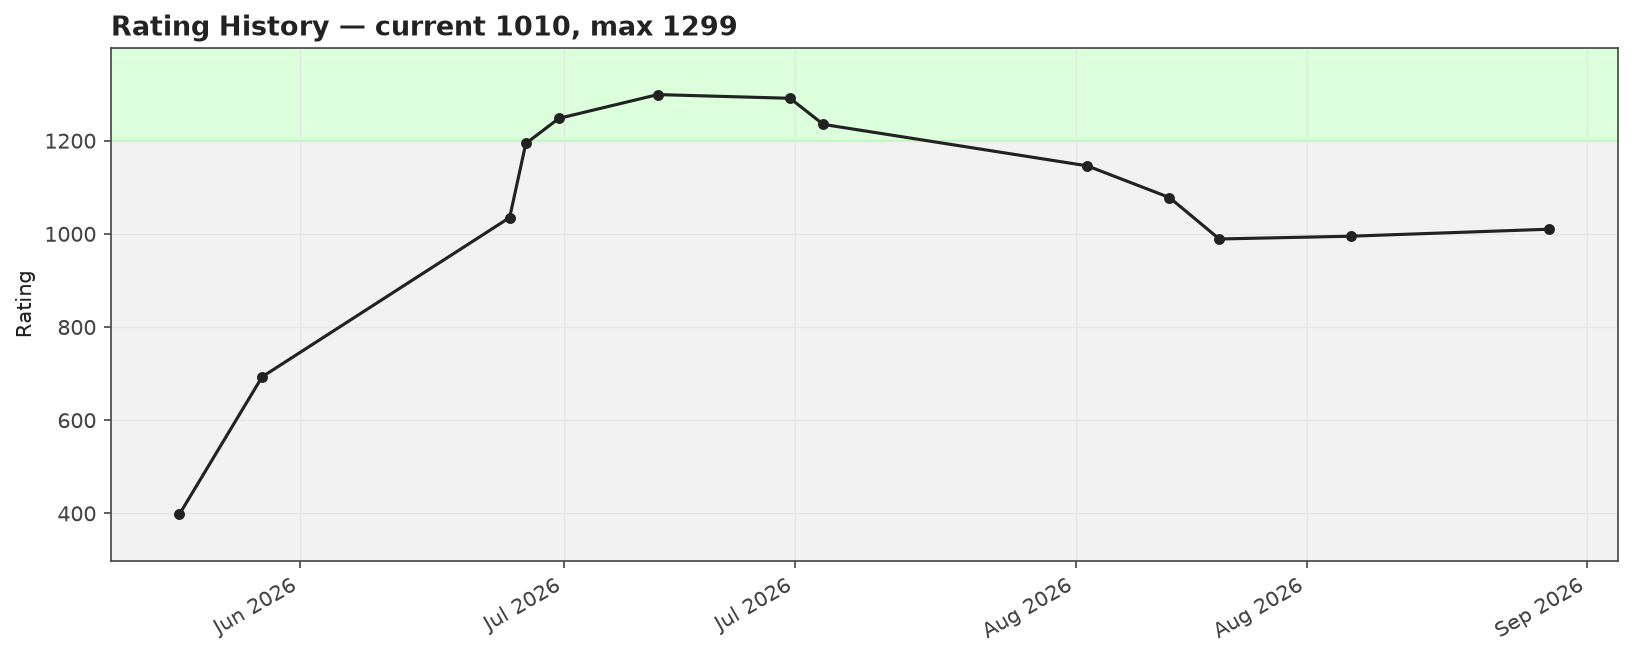
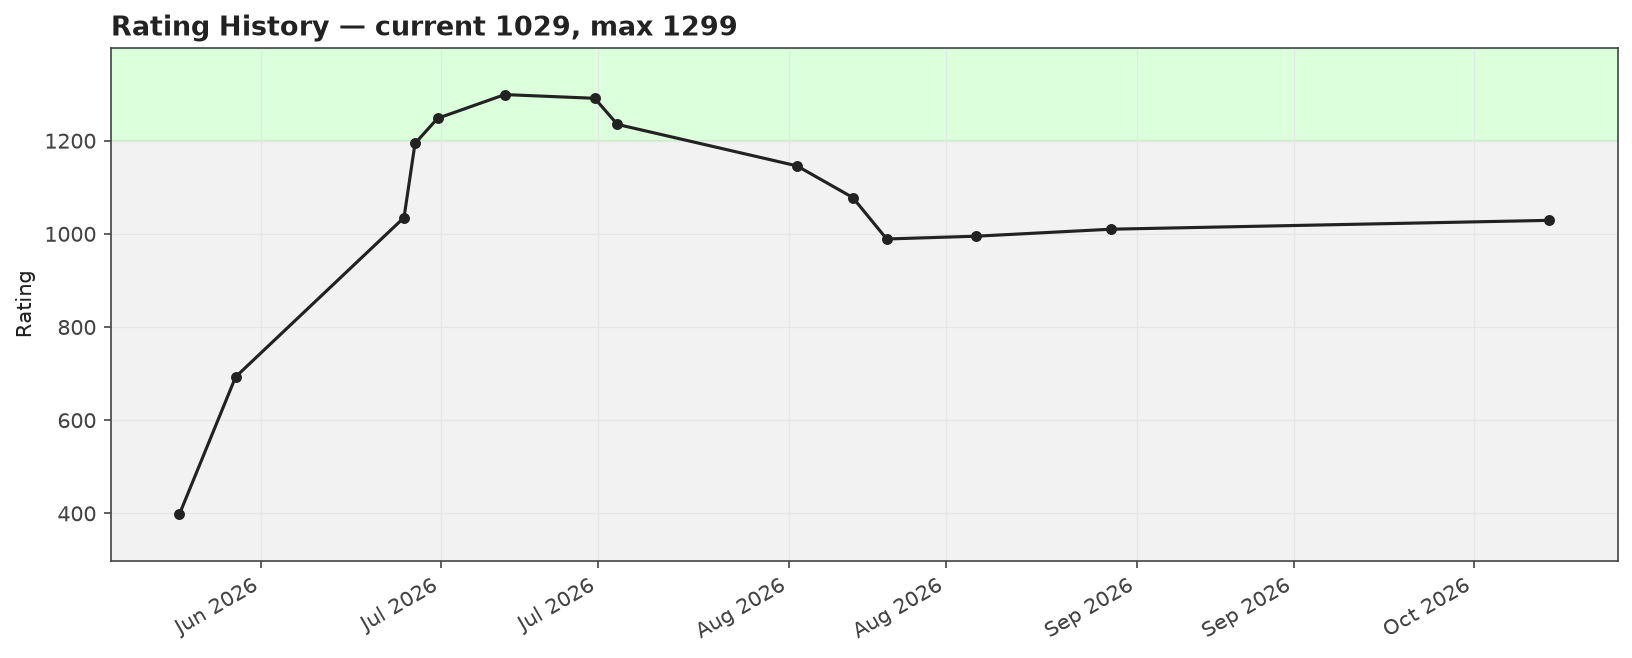
Sync: refresh analytics (rating/streak update, no new problems)

diff --git a/README.md b/README.md
@@ -5,7 +5,7 @@ Auto-generated archive of accepted Codeforces submissions for **[om_sharma_](htt
 - **Total solved:** 197
 - **With source attached:** 0 / 197
 - **Longest streak:** 8 days  |  **Current streak:** 0 days
-- **Contest rating:** 1010 (max 1299)
+- **Contest rating:** 1029 (max 1299)
 
 ## 📊 Analytics
 
